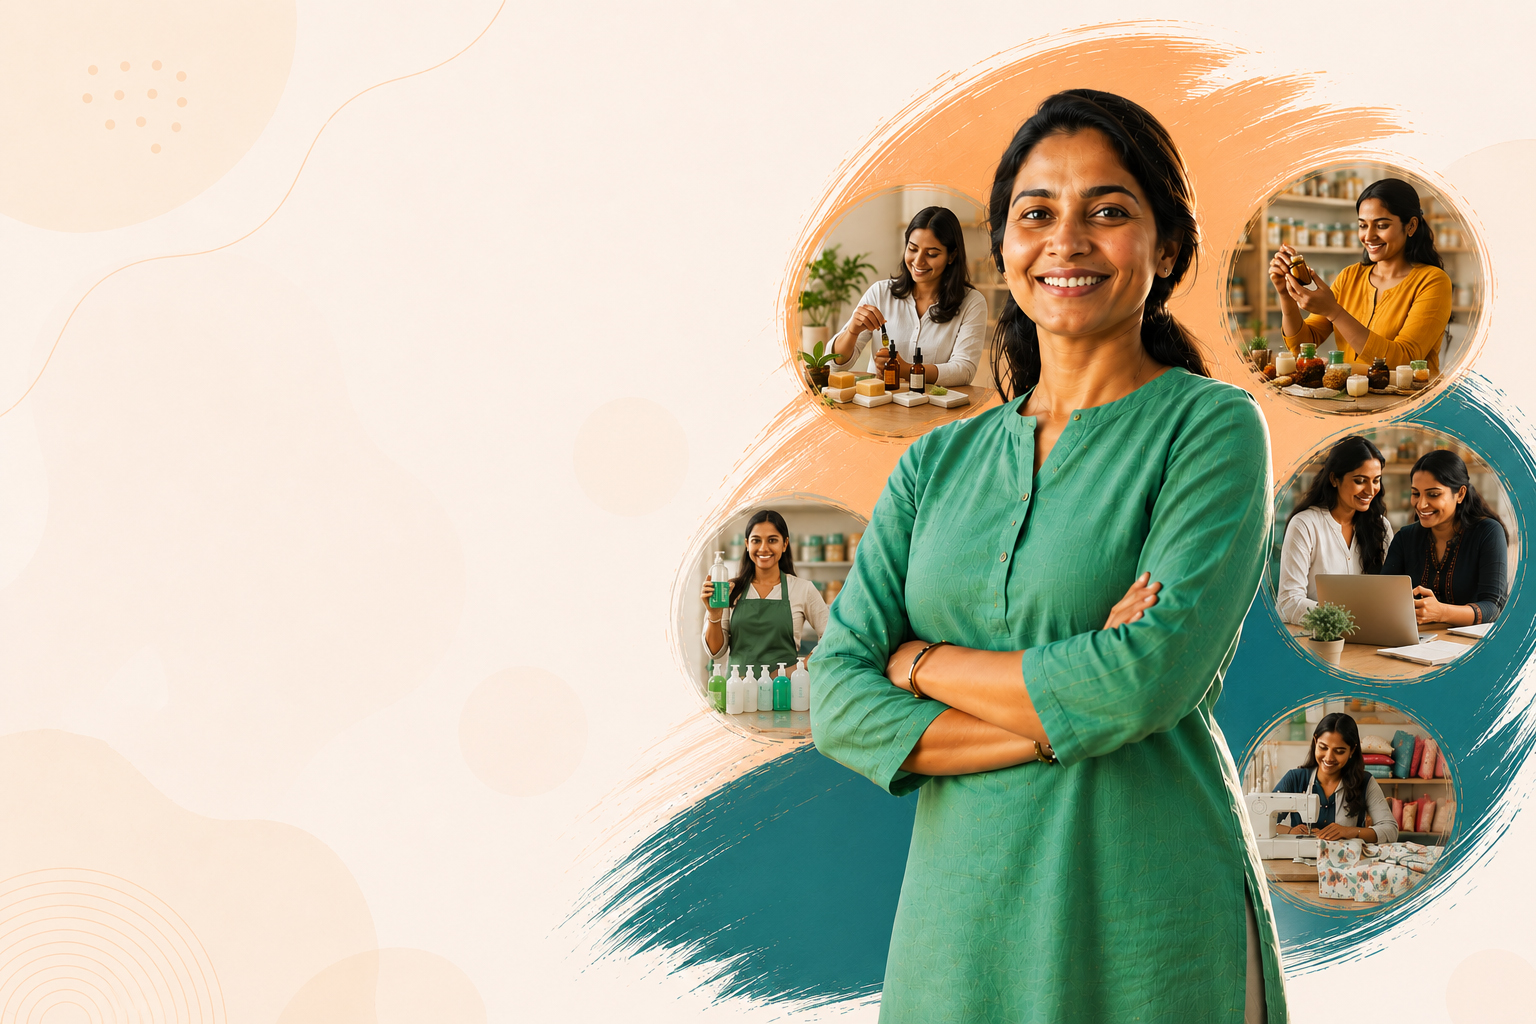
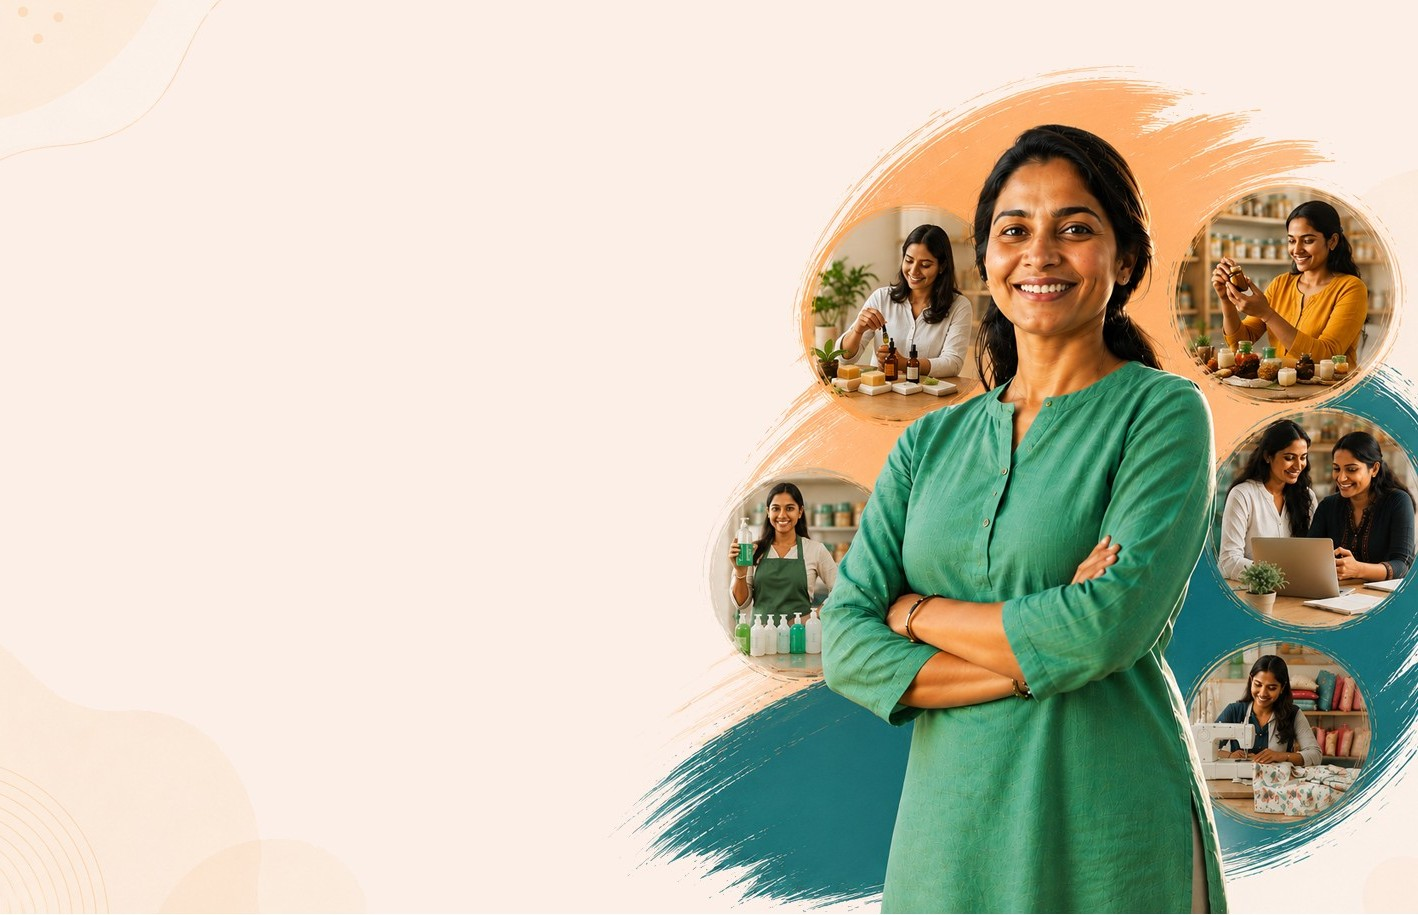
ui

diff --git a/src/constants/constants.js b/src/constants/constants.js
@@ -85,62 +85,47 @@ export const BLOG_POSTS = [
 export const TESTIMONIALS = [
   {
     id: 1,
-    name: "Mr. Samuel Surrender",
-    location: "Chennai – Flight Ticketing",
-    text: "Amigos Business Solutions handled my international flight bookings with exceptional care. Their team provided timely updates and ensured I had the best options available. I felt valued and supported throughout my journey.",
+    image: "/images/testimonials/1.webp",
+    name: "Prof Dr. Malathy Selvakkumar",
+    location: "PRINCIPAL of S.A. College of Arts & Science",
+    text: "The Program has been crafted with so much care and concern. It's a great step towards entrepreneurship. I wish and hope SIAWED scales greater heights in the future. My college and I will stand with you on every step you're taking in the direction of entrepreneurship.",
   },
   {
     id: 2,
-    name: "Mr. Damodharan",
-    location: "Chennai – Tour Package",
-    text: "I chose their Europe tour package, and it exceeded my expectations. The itinerary was thoughtfully curated, accommodations were top-notch, and every detail was handled with professionalism and warmth.",
+    name: "Dr K Deepa Mala",
+    image: "/images/testimonials/2.webp",
+    location:
+      "Founder & Chairperson Research and Action Centre for Local Democracy",
+    text: "There are several ways to empower women. Creating safe workplaces, educating women, raising voices against inequality, and training on job skills are some of them. I'm glad SIAWED contributes significantly towards women's economic empowerment through skill development and business opportunities.",
   },
   {
     id: 3,
-    name: "Mr. Manoharan",
-    location: "Chennai – Visa Processing",
-    text: "Visa formalities can be daunting, but Amigos Business Solutions made the entire process seamless. Their guidance, attention to detail, and quick documentation helped me obtain my visa stress-free.",
+    name: "Prof. Dr Rama Vaidyanathan",
+    image: "/images/testimonials/3.webp",
+    location:
+      "Director R & D Dr A P J Abdul Kalam Centre for Innovation and Entrepreneurship",
+    text: "SIAWED is a great platform for college students and aspiring women entrepreneurs to connect with industry professionals for business guidance and skill development. I'm glad to have associated with SIAWED over the years and look forward to extending my continued support.",
   },
   {
     id: 4,
-    name: "Mr. Micheal",
-    location: "Chennai – Flight Ticketing",
-    text: "I was impressed with their swift response and personalized service while booking my business-class flights. Their team understands the nuances of premium travel and delivers exactly what is needed.",
+    name: "Mrs. Manju",
+    image: "/images/testimonials/4.webp",
+    location: "Founder of Arigni Herbal Products",
+    text: "SIAWED is an amazing association for aspiring women entrepreneurs. The opportunities to connect, network, and grow together have been priceless. President Ms. Vanathi Devi is friendly, honest, and supportive. I'm grateful to be a member and excited about the future growth of this community.",
   },
   {
     id: 5,
-    name: "Mrs. Mercy Ravindaran",
-    location: "Chennai – Tour Package",
-    text: "Traveling with Amigos Business Solutions was an experience filled with comfort and elegance. From airport transfers to hotel stays, everything was perfectly arranged, making it a truly memorable holiday.",
+    name: "Ms. Deepika V",
+    image: "/images/testimonials/5.webp",
+    location:
+      "Digital Marketer Rajapalayam SIAWED Member & Awardee - Budding Entrepreneur",
+    text: "Joining SIAWED helped me showcase my skills as a Digital Marketer to a wider audience. Through this platform, I received speaking opportunities, business leads, and recognition as the 'Budding Entrepreneur of the Year 2017'. I'm grateful for the support and connections gained through this organization.",
   },
   {
     id: 6,
-    name: "Mrs. Celina Jani",
-    location: "Coimbatore – Visa Processing",
-    text: "Thanks to the expert team at Amigos Business Solutions, my visa paperwork for a European trip was processed quickly and without hassle. Their professionalism and support made all the difference.",
-  },
-  {
-    id: 7,
-    name: "Mr. Ranjith",
-    location: "Australia – Tour Package",
-    text: "Exploring Australia through Amigos Business Solutions was an absolute delight. The curated experiences, expert guides, and seamless arrangements made it a luxurious and enriching journey I’ll always cherish.",
-  },
-  {
-    id: 8,
-    name: "Dr. Ramesh",
-    location: "Kariakudi – Tour Package (Japan Tour)",
-    text: "The Japan tour package was organized impeccably. Amigos Business Solutions ensured I had cultural insights, smooth travel arrangements, and excellent hospitality at every stage of the trip.",
-  },
-  {
-    id: 9,
-    name: "Dr. Veeramani",
-    location: "Karaikal – Tour Package",
-    text: "From start to finish, my experience with Amigos Business Solutions was flawless. Every hotel, tour spot, and transfer was well-planned, allowing me to fully enjoy the sights without any worries.",
-  },
-  {
-    id: 10,
-    name: "Mrs. Sridevi",
-    location: "Chennai – Visa Processing (Canada Visa)",
-    text: "Applying for a Canada visa felt effortless thanks to the Amigos Business Solutions team. They handled everything with precision and care, guiding me through the complex process and ensuring all requirements were met.",
+    name: "Ms Kalyani",
+    image: "/images/testimonials/6.webp",
+    location: "Chennai SIAWED Member and Awardee - Budding Entrepreneur",
+    text: "As a culinary expert and entrepreneur, I joined SIAWED in search of a dynamic women's business community. The guidance from Ms. T Vanadhi Devi and the recognition through the 'Budding Entrepreneur Award' motivated me greatly. SIAWED has helped me gain referrals, visibility, and valuable business support.",
   },
 ];

diff --git a/src/components/screens/home/sections/focused_actions/focused_actions.jsx b/src/components/screens/home/sections/focused_actions/focused_actions.jsx
@@ -49,22 +49,22 @@ const FocusedActionsSection = () => {
                 <h4 className={styles.cardTitle}>500+ Women Artisans</h4>
                 <div className={styles.avatarsRow}>
                   <Image
-                    src="/avtr1.jpg"
+                    src="/images/testimonials/1.webp"
                     alt="Artisan 1"
                     className={styles.avatar}
                   />
                   <Image
-                    src="/avtr1.jpg"
+                    src="/images/testimonials/2.webp"
                     alt="Artisan 2"
                     className={styles.avatar}
                   />
                   <Image
-                    src="/avtr1.jpg"
+                    src="/images/testimonials/3.webp"
                     alt="Artisan 3"
                     className={styles.avatar}
                   />
                   <Image
-                    src="/avtr1.jpg"
+                    src="/images/testimonials/4.webp"
                     alt="Artisan 4"
                     className={styles.avatar}
                   />
@@ -83,7 +83,7 @@ const FocusedActionsSection = () => {
 
               {/* Middle-Right Image (Main) */}
               <div className={styles.imgMain}>
-                <Image src="/logo/wenba_logo.png" alt="WENBA Marketplace" />
+                <Image src="/logo/wenba_logo.jpeg" alt="WENBA Marketplace" />
               </div>
 
               {/* Bottom-Left Card */}

diff --git a/src/components/screens/home/sections/focused_actions/focused_actions.module.scss b/src/components/screens/home/sections/focused_actions/focused_actions.module.scss
@@ -101,17 +101,17 @@
         .imgMain {
           position: absolute;
           top: 190px;
-          right: 0;
-          height: 390px;
+
+          right: -20px;
+          height: 350px;
           aspect-ratio: 1 / 1;
           z-index: 2;
-
-          border-radius: 50%;
 
           img {
             width: 100%;
             height: 100%;
             object-fit: cover;
+            border-radius: 16px;
           }
         }
 

diff --git a/src/components/screens/home/sections/testimonials/testimonials.module.scss b/src/components/screens/home/sections/testimonials/testimonials.module.scss
@@ -146,8 +146,8 @@
 
     .authorImageWrap {
       position: relative;
-      width: 50px;
-      height: 50px;
+      width: 100px;
+      height: 100px;
       flex-shrink: 0;
 
       .avatar {

diff --git a/src/components/screens/home/sections/banner/banner.module.scss b/src/components/screens/home/sections/banner/banner.module.scss
@@ -3,7 +3,7 @@
   height: 150vh;
   background-size: cover;
   position: relative;
-  background-position: center;
+  background-position: top;
 
   .topWrap {
     height: 100vh;

diff --git a/src/components/screens/home/sections/testimonials/testimonials.jsx b/src/components/screens/home/sections/testimonials/testimonials.jsx
@@ -130,7 +130,7 @@ const TestimonialsSection = () => {
                     </div>
 
                     <div className={styles.authorImageWrap}>
-                      <Image src="/avtr1.jpg" alt={testimonial.name} className={styles.avatar} />
+                      <Image src={testimonial.image} alt={testimonial.name} className={styles.avatar} />
                       <div className={styles.quoteCircle}>
                         <QuoteIcon />
                       </div>